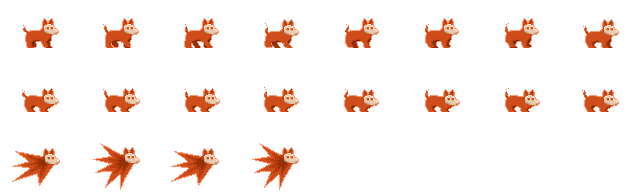
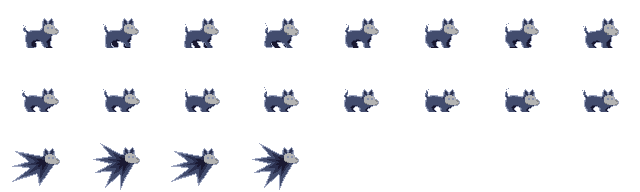
Update Cerberus
- Added Cerberus Animations

diff --git a/GameObjects/Character/Cerberus.cs b/GameObjects/Character/Cerberus.cs
@@ -29,20 +29,28 @@ namespace FinalComGame
         private Vector2 _barrierEnd ;
         private Vector2 _barrierEnd1;
 
+        private int _direction = 1;
         public HealthBar HealthBar;
 
         public Cerberus(Texture2D texture, Texture2D particleTexture) : base(texture) 
         { 
-            // Animation = new Animation(texture, 48, 48, new Vector2(48*8 , 48*6), 12);
-            // Animation.AddAnimation("Chase", new Vector2(0, 0), 8);
-            // Animation.AddAnimation("charge", new Vector2(0, 1), 6);
-            // Animation.AddAnimation("jump", new Vector2(0, 2), 5);
-            // Animation.AddAnimation("float", new Vector2(0, 3), 1);
-            // Animation.AddAnimation("land", new Vector2(0, 4), 5);
-            // Animation.AddAnimation("die", new Vector2(0, 5), 7);
-            // Animation.ChangeAnimation(_currentAnimation);
-
+            _texture = texture;
             CanCollideTile = true;
+        }
+
+        public override void AddAnimation(){
+            Animation = new Animation(_texture, 96, 80, new Vector2(96*8, 80*5), 24);
+
+            Animation.AddAnimation("idle", new Vector2(0,0), 8);
+            Animation.AddAnimation("charge", new Vector2(0,1), 8);
+            Animation.AddAnimation("dash", new Vector2(0,3), 2);
+            Animation.AddAnimation("run", new Vector2(0,4), 3);
+
+            Animation.AddAnimation("sd_charge", new Vector2(0,2), 8);
+            Animation.AddAnimation("sd_dash", new Vector2(3,3), 2);
+            Animation.AddAnimation("sd_run", new Vector2(3,4), 3);
+
+            Animation.ChangeAnimation("idle");
         }
 
         public override void Update(GameTime gameTime, List<GameObject> gameObjects, TileMap tileMap)
@@ -69,20 +77,83 @@ namespace FinalComGame
             switch (CurrentState)
             {
                 case EnemyState.Chase:
+                    if (Velocity.X > 0)
+                        _direction = 1;
+                    else if (Velocity.X < 0)
+                        _direction = -1;
                     AI_Chase(deltaTime, gameObjects, tileMap);
                     break;
                 case EnemyState.Jump:
+                    if (Singleton.Instance.Player.GetPlayerCenter().X > Position.X)
+                        _direction = 1;
+                    else if (Singleton.Instance.Player.GetPlayerCenter().X < Position.X)
+                        _direction = -1;
                     AI_Jump(deltaTime, gameObjects, tileMap);
                     break;
                 case EnemyState.Charging:
+                    if (Singleton.Instance.Player.GetPlayerCenter().X > Position.X)
+                        _direction = 1;
+                    else if (Singleton.Instance.Player.GetPlayerCenter().X < Position.X)
+                        _direction = -1;
                     AI_Charging(deltaTime,gameObjects, tileMap);
                     break;
                 case EnemyState.Dash:
+                    if (Singleton.Instance.Player.GetPlayerCenter().X > Position.X)
+                        _direction = 1;
+                    else if (Singleton.Instance.Player.GetPlayerCenter().X < Position.X)
+                        _direction = -1;
                     AI_Dash(deltaTime,gameObjects, tileMap);
                     break;
             }
 
+            float delta = _isSummoned ? deltaTime/3 : deltaTime; 
+            UpdateAnimation(delta);
             base.Update(gameTime, gameObjects, tileMap);
+        }
+
+        protected override void UpdateAnimation(float deltaTime)
+        {
+            string animation = "idle";
+            Animation.SetFPS(24);
+
+            switch (CurrentState)
+            {
+                case EnemyState.Charging:
+                case EnemyState.Jump:
+                    animation = "charge";
+                    break;
+
+                case EnemyState.Dash:
+                    animation = "dash";
+                    break;
+                    
+                case EnemyState.Chase:
+                    Animation.SetFPS(12);
+                    animation = "run";
+                    break;
+
+                case EnemyState.Idle:
+                    animation = "idle";
+                    break;
+            }
+
+            if (_isSummoned)
+            {
+                animation = "sd_" + animation;
+            }
+                
+            if(_currentAnimation != animation && !Animation.IsTransition)
+            {
+                _currentAnimation = animation;
+                switch (animation)
+                {
+                    default:
+                        Animation.ChangeAnimation(_currentAnimation);
+                        break;
+                }    
+            }
+     
+            base.UpdateAnimation(deltaTime);
         }
 
         private void AI_Chase(float deltaTime, List<GameObject> gameObjects, TileMap tileMap)
@@ -94,9 +165,9 @@ namespace FinalComGame
             _actionTimer -= deltaTime * (_isEnraged ? 1.5f : 1) * _actionTimeOffset;
             if(Math.Abs((Singleton.Instance.Player.Position - this.Position).X) >20f)
                 Direction = Math.Sign( (Singleton.Instance.Player.Position - this.Position).X);
-            Velocity.X = 60f * Direction;
-            Velocity.X *= Friction;
 
+            Velocity.X = 200f * Direction;
+            Velocity.X *= Friction;
 
             if (_actionTimer <= 0)
             {
@@ -257,9 +328,24 @@ namespace FinalComGame
 
         public override void Draw(SpriteBatch spriteBatch)
         {
-            base.Draw(spriteBatch);
+            SpriteEffects spriteEffect = _direction == 1 ? SpriteEffects.None : SpriteEffects.FlipHorizontally;
+            Color color = IsInvincible() ? Color.Red : Color.White;
+
+            spriteBatch.Draw(
+                Animation.GetTexture(),
+                GetDrawingPosition(),
+                Animation.GetCurrentFrame(),
+                color,
+                0f, 
+                Vector2.Zero,
+                Scale,
+                spriteEffect, 
+                0f
+            );
+
             DrawDebug(spriteBatch);
         }
+    
 
         protected override void DrawDebug(SpriteBatch spriteBatch)
         {

diff --git a/GameObjects/Character/HellhoundEnemy.cs b/GameObjects/Character/HellhoundEnemy.cs
@@ -18,6 +18,7 @@ namespace FinalComGame
         private float _dashTimer;
         public float DashDuration;
         private int _direction = 1;
+        
 
 
         public HellhoundEnemy(Texture2D texture) : base(texture) { 
@@ -217,11 +218,13 @@ namespace FinalComGame
             UpdateVerticalMovement(deltaTime, gameObjects, tileMap);
             if (_isDashing)
             {
+                IsIgnorePlatform = true;
                 _dashTimer -= deltaTime;
                 if (_dashTimer <=0 )
                 {
                     //Console.WriteLine("Hellhound finished dashing, switching to chase mode.");
                     _isDashing = false;
+                    IsIgnorePlatform = false;
                     CurrentState = EnemyState.Chase;
                     _chaseTimer = ChaseDuration;
                 }

diff --git a/Scene/PlayScene.cs b/Scene/PlayScene.cs
@@ -424,7 +424,7 @@ public class PlayScene : Scene
                     LimitIdlePatrol = 100,
                     
                     ChargeTime = 2.0f,
-                    ChaseDuration = 5f,
+                    ChaseDuration = 3.0f,
                     DashDuration = 1.0f,
 
                     HitSound = hitSound
@@ -538,7 +538,7 @@ public class PlayScene : Scene
                     Name = "Enemy",//I want to name Skeleton but bullet code dectect enemy by name
                     Viewport = new Rectangle(0, 0, 64, 48),
 
-                    MaxHealth = 100f,
+                    MaxHealth = 1000,
                     BaseAttackDamage = 3f,
 
                     // JumpCooldown = 3.0f,
